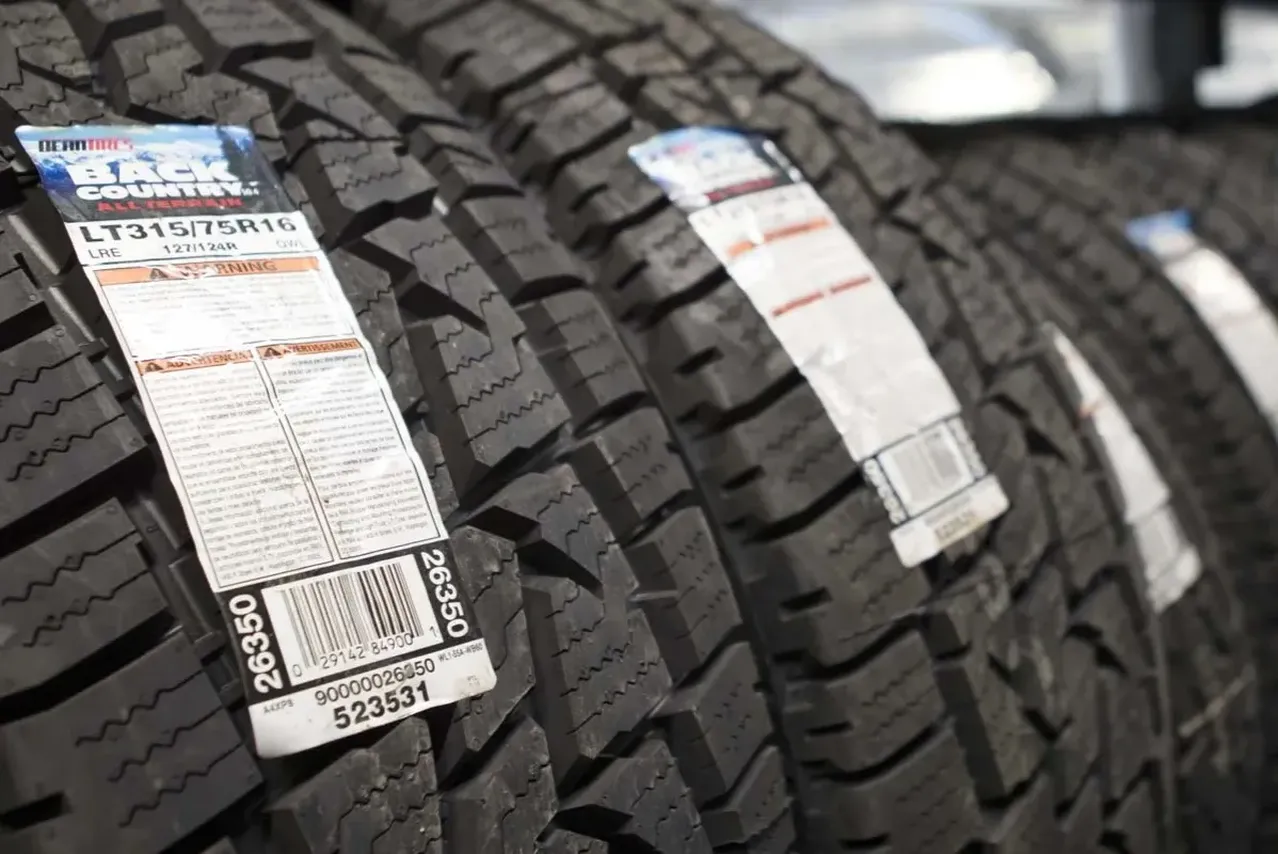
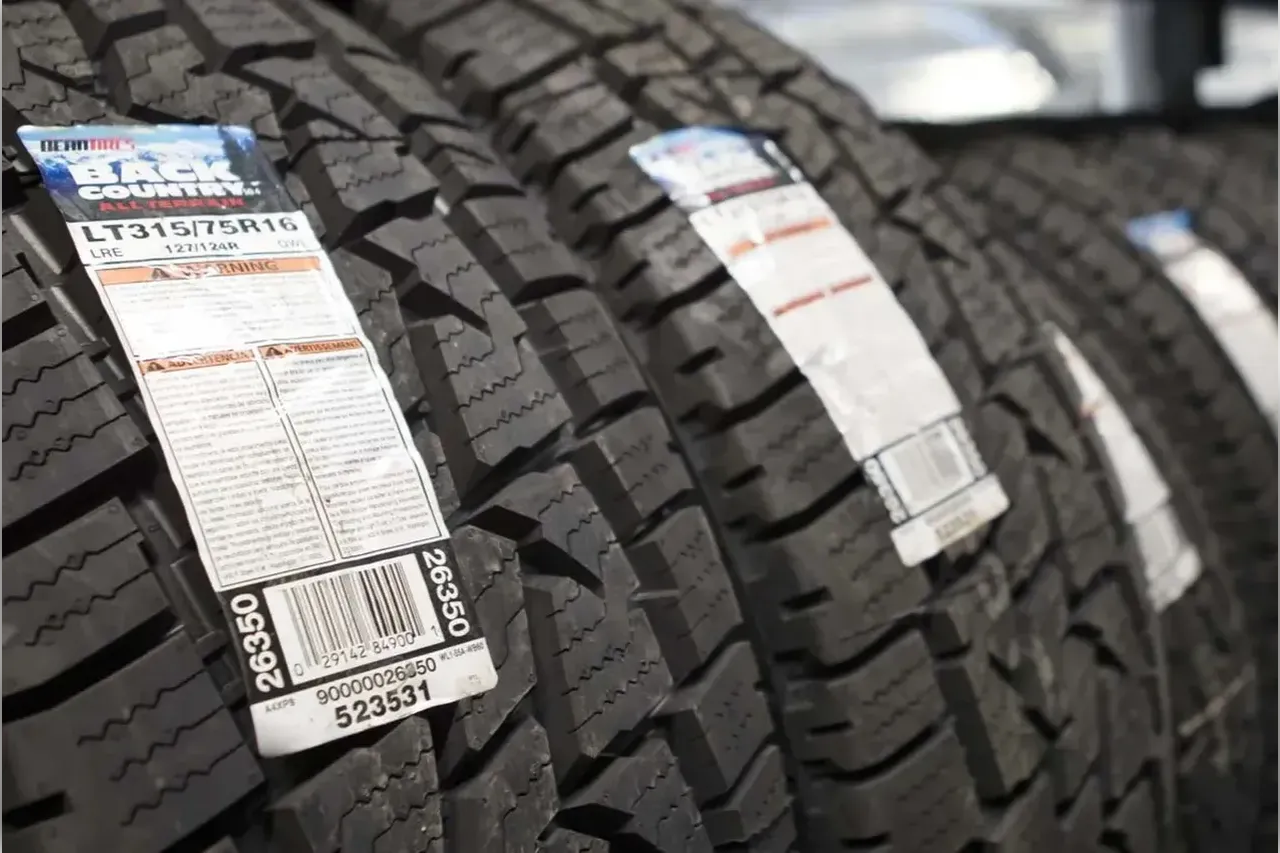
Fix image size in pixels

diff --git a/src/app/services/app.services.ts b/src/app/services/app.services.ts
@@ -55,6 +55,11 @@ export class AppServicesComponent {
             title: "Prezutie kolies",
         },
         {
+            description:
+            image: "sluzby/odtah.webp",
+            title: "Odťah vozidla",
+        },
+        {
             description: "Cenník nových pneumatík na požiadanie.",
             image: "sluzby/dodanie.webp",
             title: "Dodanie pneumatík",
